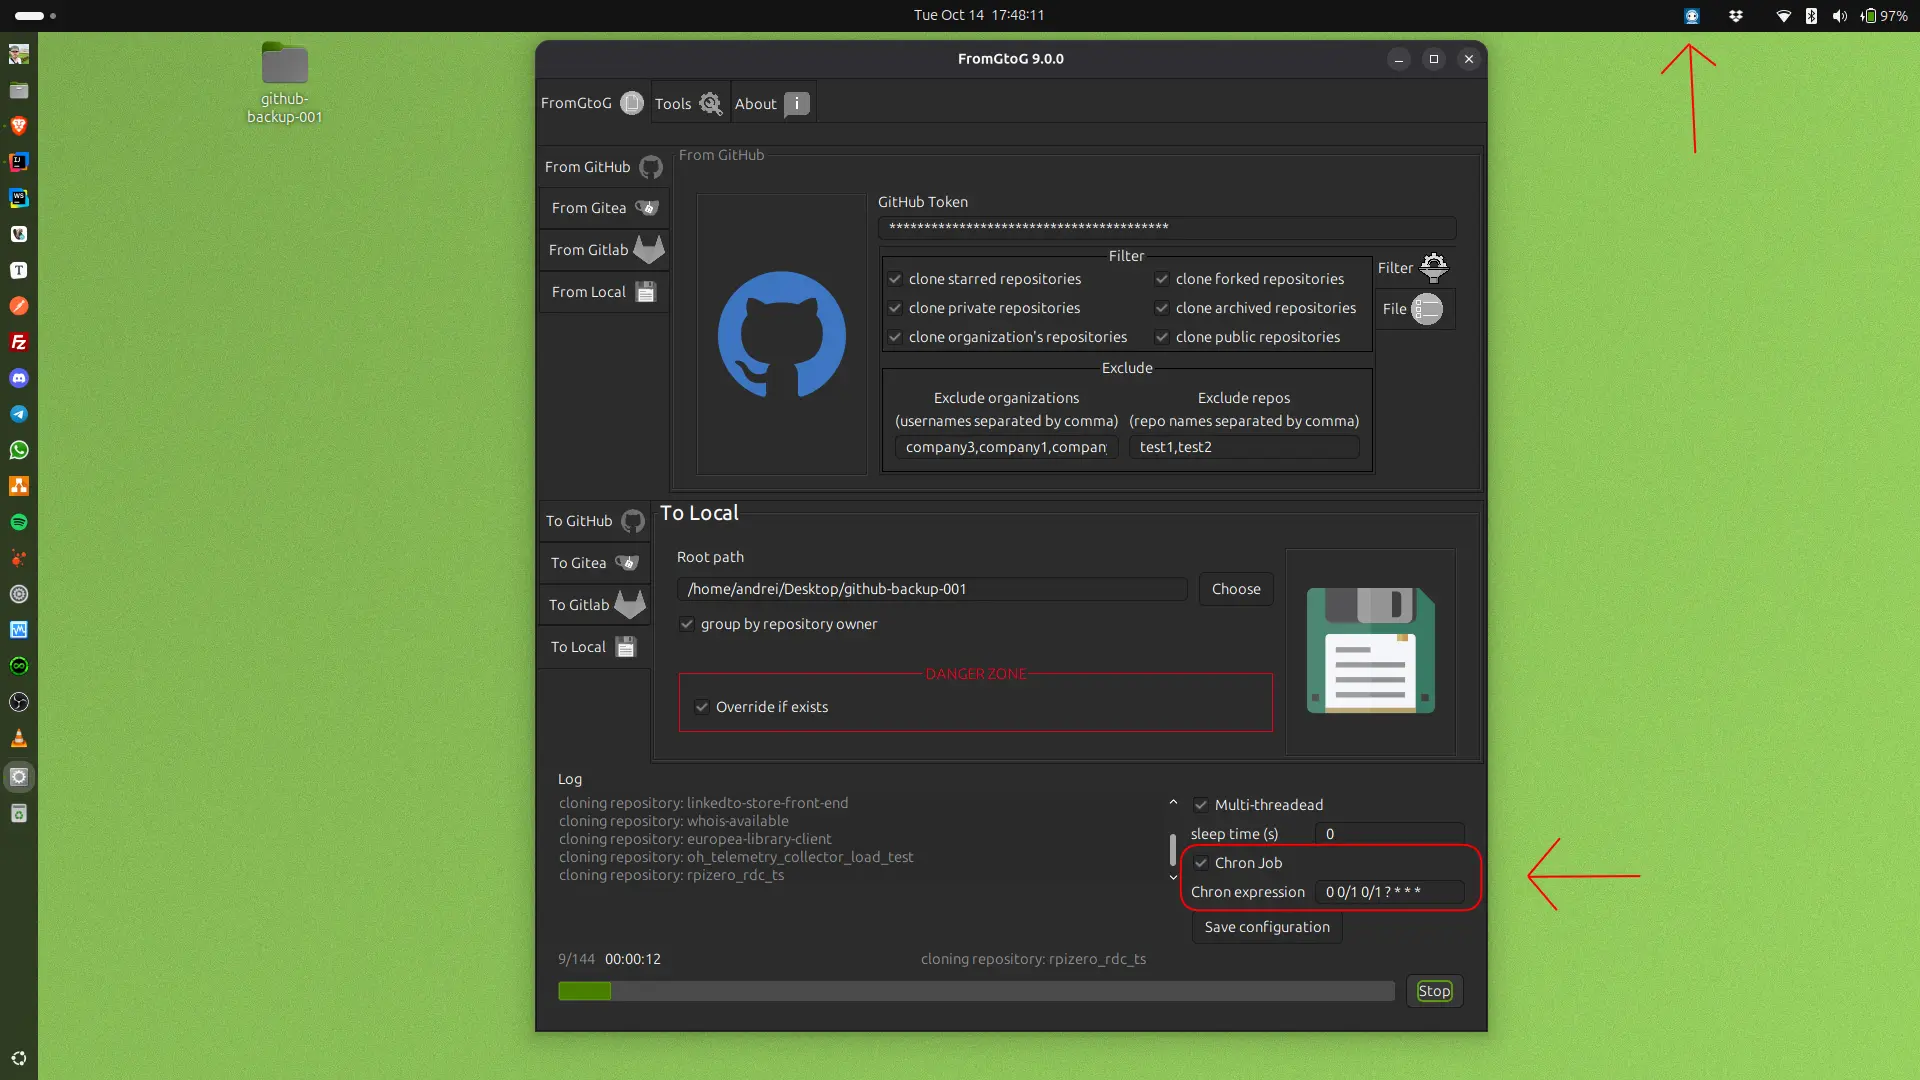
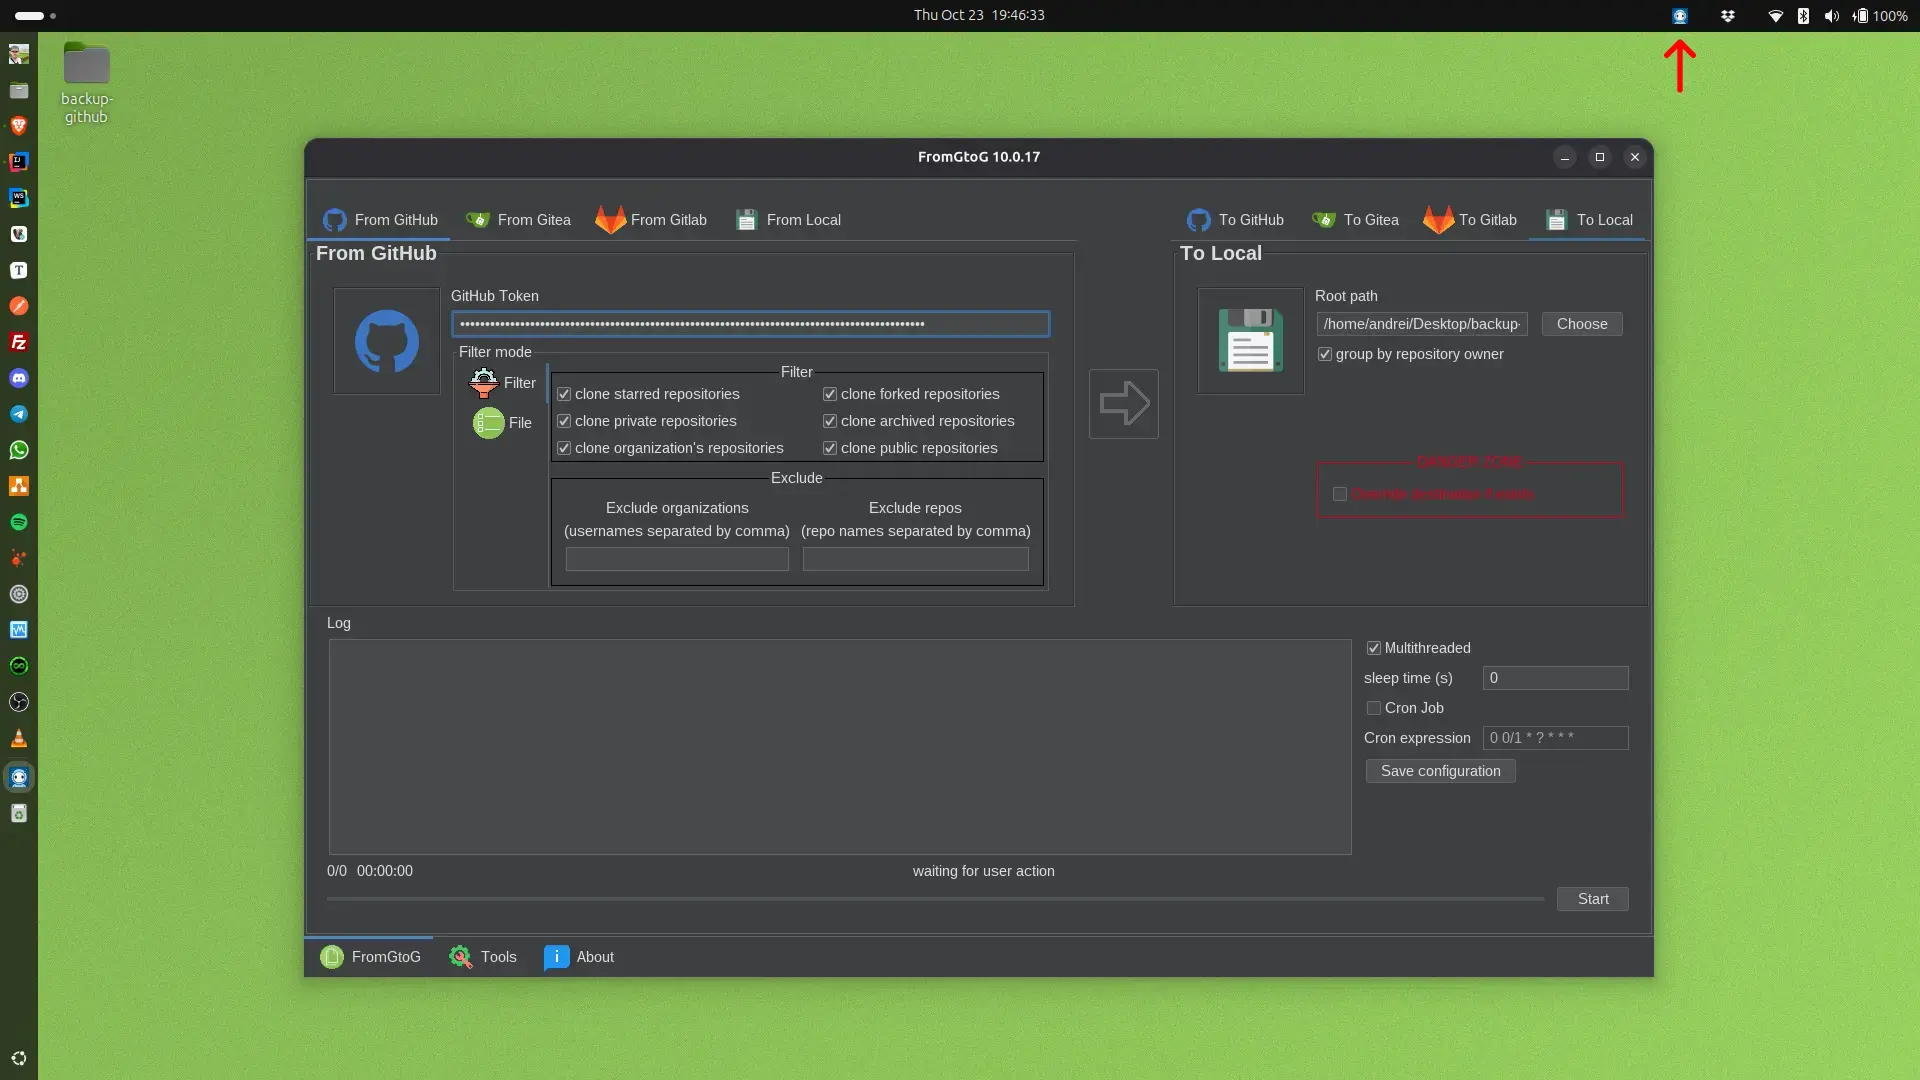
doc: update

diff --git a/README.md b/README.md
@@ -132,10 +132,10 @@ The application supports robust, two-way cloning and secure migration across all
 
 | Platform           | AMD64 Installer                                                                                                              | ARM64 Installer                                                                                                                  | Other Installation Method(s)                                                                                                                                  |
 |:-------------------|:-----------------------------------------------------------------------------------------------------------------------------|:---------------------------------------------------------------------------------------------------------------------------------|:--------------------------------------------------------------------------------------------------------------------------------------------------------------|
-| **MacOS**          | [Installer ZIP](https://github.com/goto-eof/fromgtog/releases/download/10.0.17/fromgtog-MacOS-10.0.17-amd64-Installer.zip)   | [Installer ZIP](https://github.com/goto-eof/fromgtog/releases/download/10.0.17/fromgtog-MacOS-10.0.17-arm64-Installer.zip)       | N/A                                                                                                                                                           |
-| **Windows**        | [Installer ZIP](https://github.com/goto-eof/fromgtog/releases/download/10.0.17/fromgtog-Windows-10.0.17-amd64-Installer.zip) | N/A                                                                                                                              | N/A                                                                                                                                                           |
-| **Debian/Linux**   | [Installer ZIP](https://github.com/goto-eof/fromgtog/releases/download/10.0.17/fromgtog-Linux-10.0.17-amd64-Installer.zip)   | **Snap Store (AMD64/ARM64):** [Install Link](https://snapcraft.io/fromgtog)<br>**Comment:** Or run `sudo snap install fromgtog`. | N/A                                                                                                                                                           |
-| **Cross-Platform** | N/A                                                                                                                          | N/A                                                                                                                              | **Jar file:** [Download Link](https://github.com/goto-eof/fromgtog/releases/download/10.0.17/fromgtog.jar)<br>**Comment:** Run with `java -jar fromgtog.jar`. |
+| **MacOS**          | [Installer ZIP](https://andre-i.eu/api/v1/download?filePath=noc-convert/releases/download/10.0.17/fromgtog-MacOS-10.0.17-amd64-Installer.zip)   | [Installer ZIP](https://andre-i.eu/api/v1/download?filePath=noc-convert/releases/download/10.0.17/fromgtog-MacOS-10.0.17-arm64-Installer.zip)       | N/A                                                                                                                                                           |
+| **Windows**        | [Installer ZIP](https://andre-i.eu/api/v1/download?filePath=noc-convert/releases/download/10.0.17/fromgtog-Windows-10.0.17-amd64-Installer.zip) | N/A                                                                                                                              | N/A                                                                                                                                                           |
+| **Debian/Linux**   | [Installer ZIP](https://andre-i.eu/api/v1/download?filePath=noc-convert/releases/download/10.0.17/fromgtog-Linux-10.0.17-amd64-Installer.zip)   | **Snap Store (AMD64/ARM64):** [Install Link](https://snapcraft.io/fromgtog)<br>**Comment:** Or run `sudo snap install fromgtog`. | N/A                                                                                                                                                           |
+| **Cross-Platform** | N/A                                                                                                                          | N/A                                                                                                                              | **Jar file:** [Download Link](https://andre-i.eu/api/v1/download?filePath=noc-convert/releases/download/10.0.17/fromgtog.jar)<br>**Comment:** Run with `java -jar fromgtog.jar`. |
 
 <h2 id="screenshot">Screenshot</h2>
 
@@ -156,7 +156,10 @@ JDK 21, Intellij UI Designer (plugin for Intellij), Slf4J, Lombok, Apache Common
 
 <h2 id="my-dev-notes">My Dev Notes about FromGtoG</h2>
 
-- 2025/10/20 - published the version 10.0.17, which introduces the deep cloning feature (all repository branches and
+- 2025/10/23 - I am an important upgrade of the UI. Now the user experience should be more clear. I also fixed the
+  snapcraft.yml in order to have a system tray icon and be able to play application sounds. The application now brings
+  the entire JRE with it, but I will find some time to fix also this "issue".
+- 2025/10/20 - published the version 10.0+, which introduces the deep cloning feature (all repository branches and
   tags) and fixed some bugs.
 - 2025/10/14
     - implemented the backup all repositories scheduled job and now FromGtoG has it's Tray Icon
